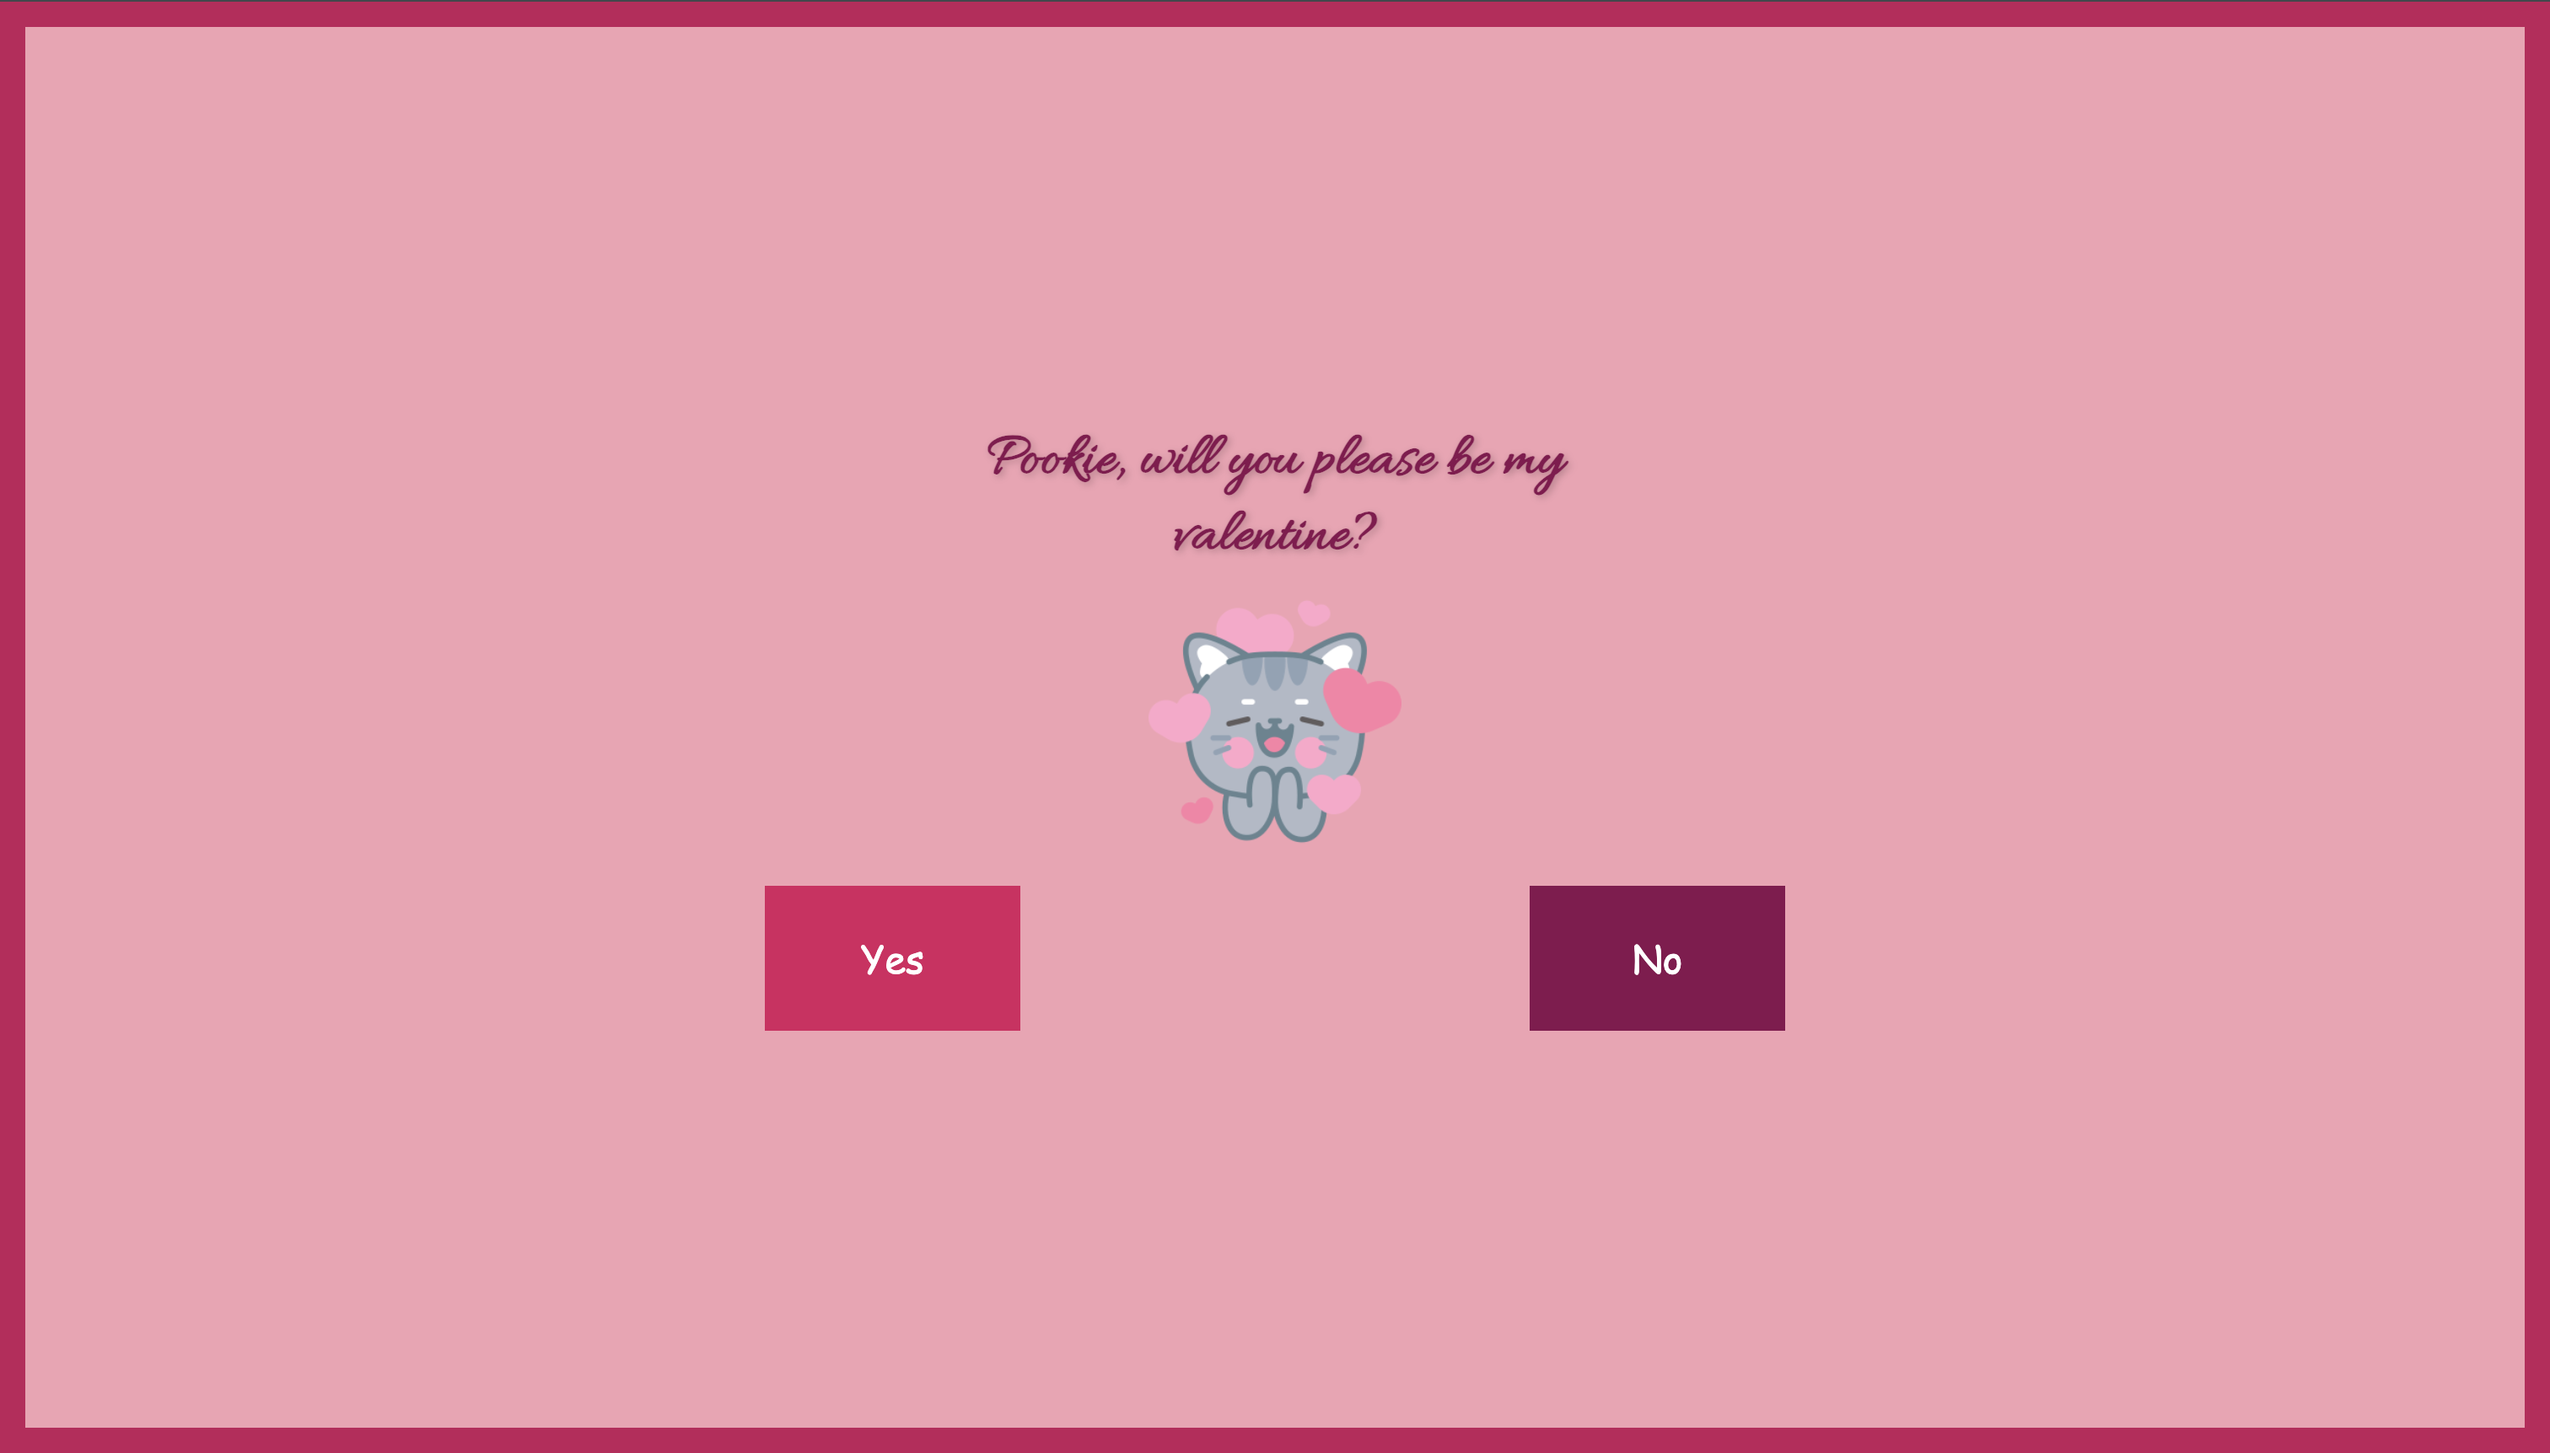
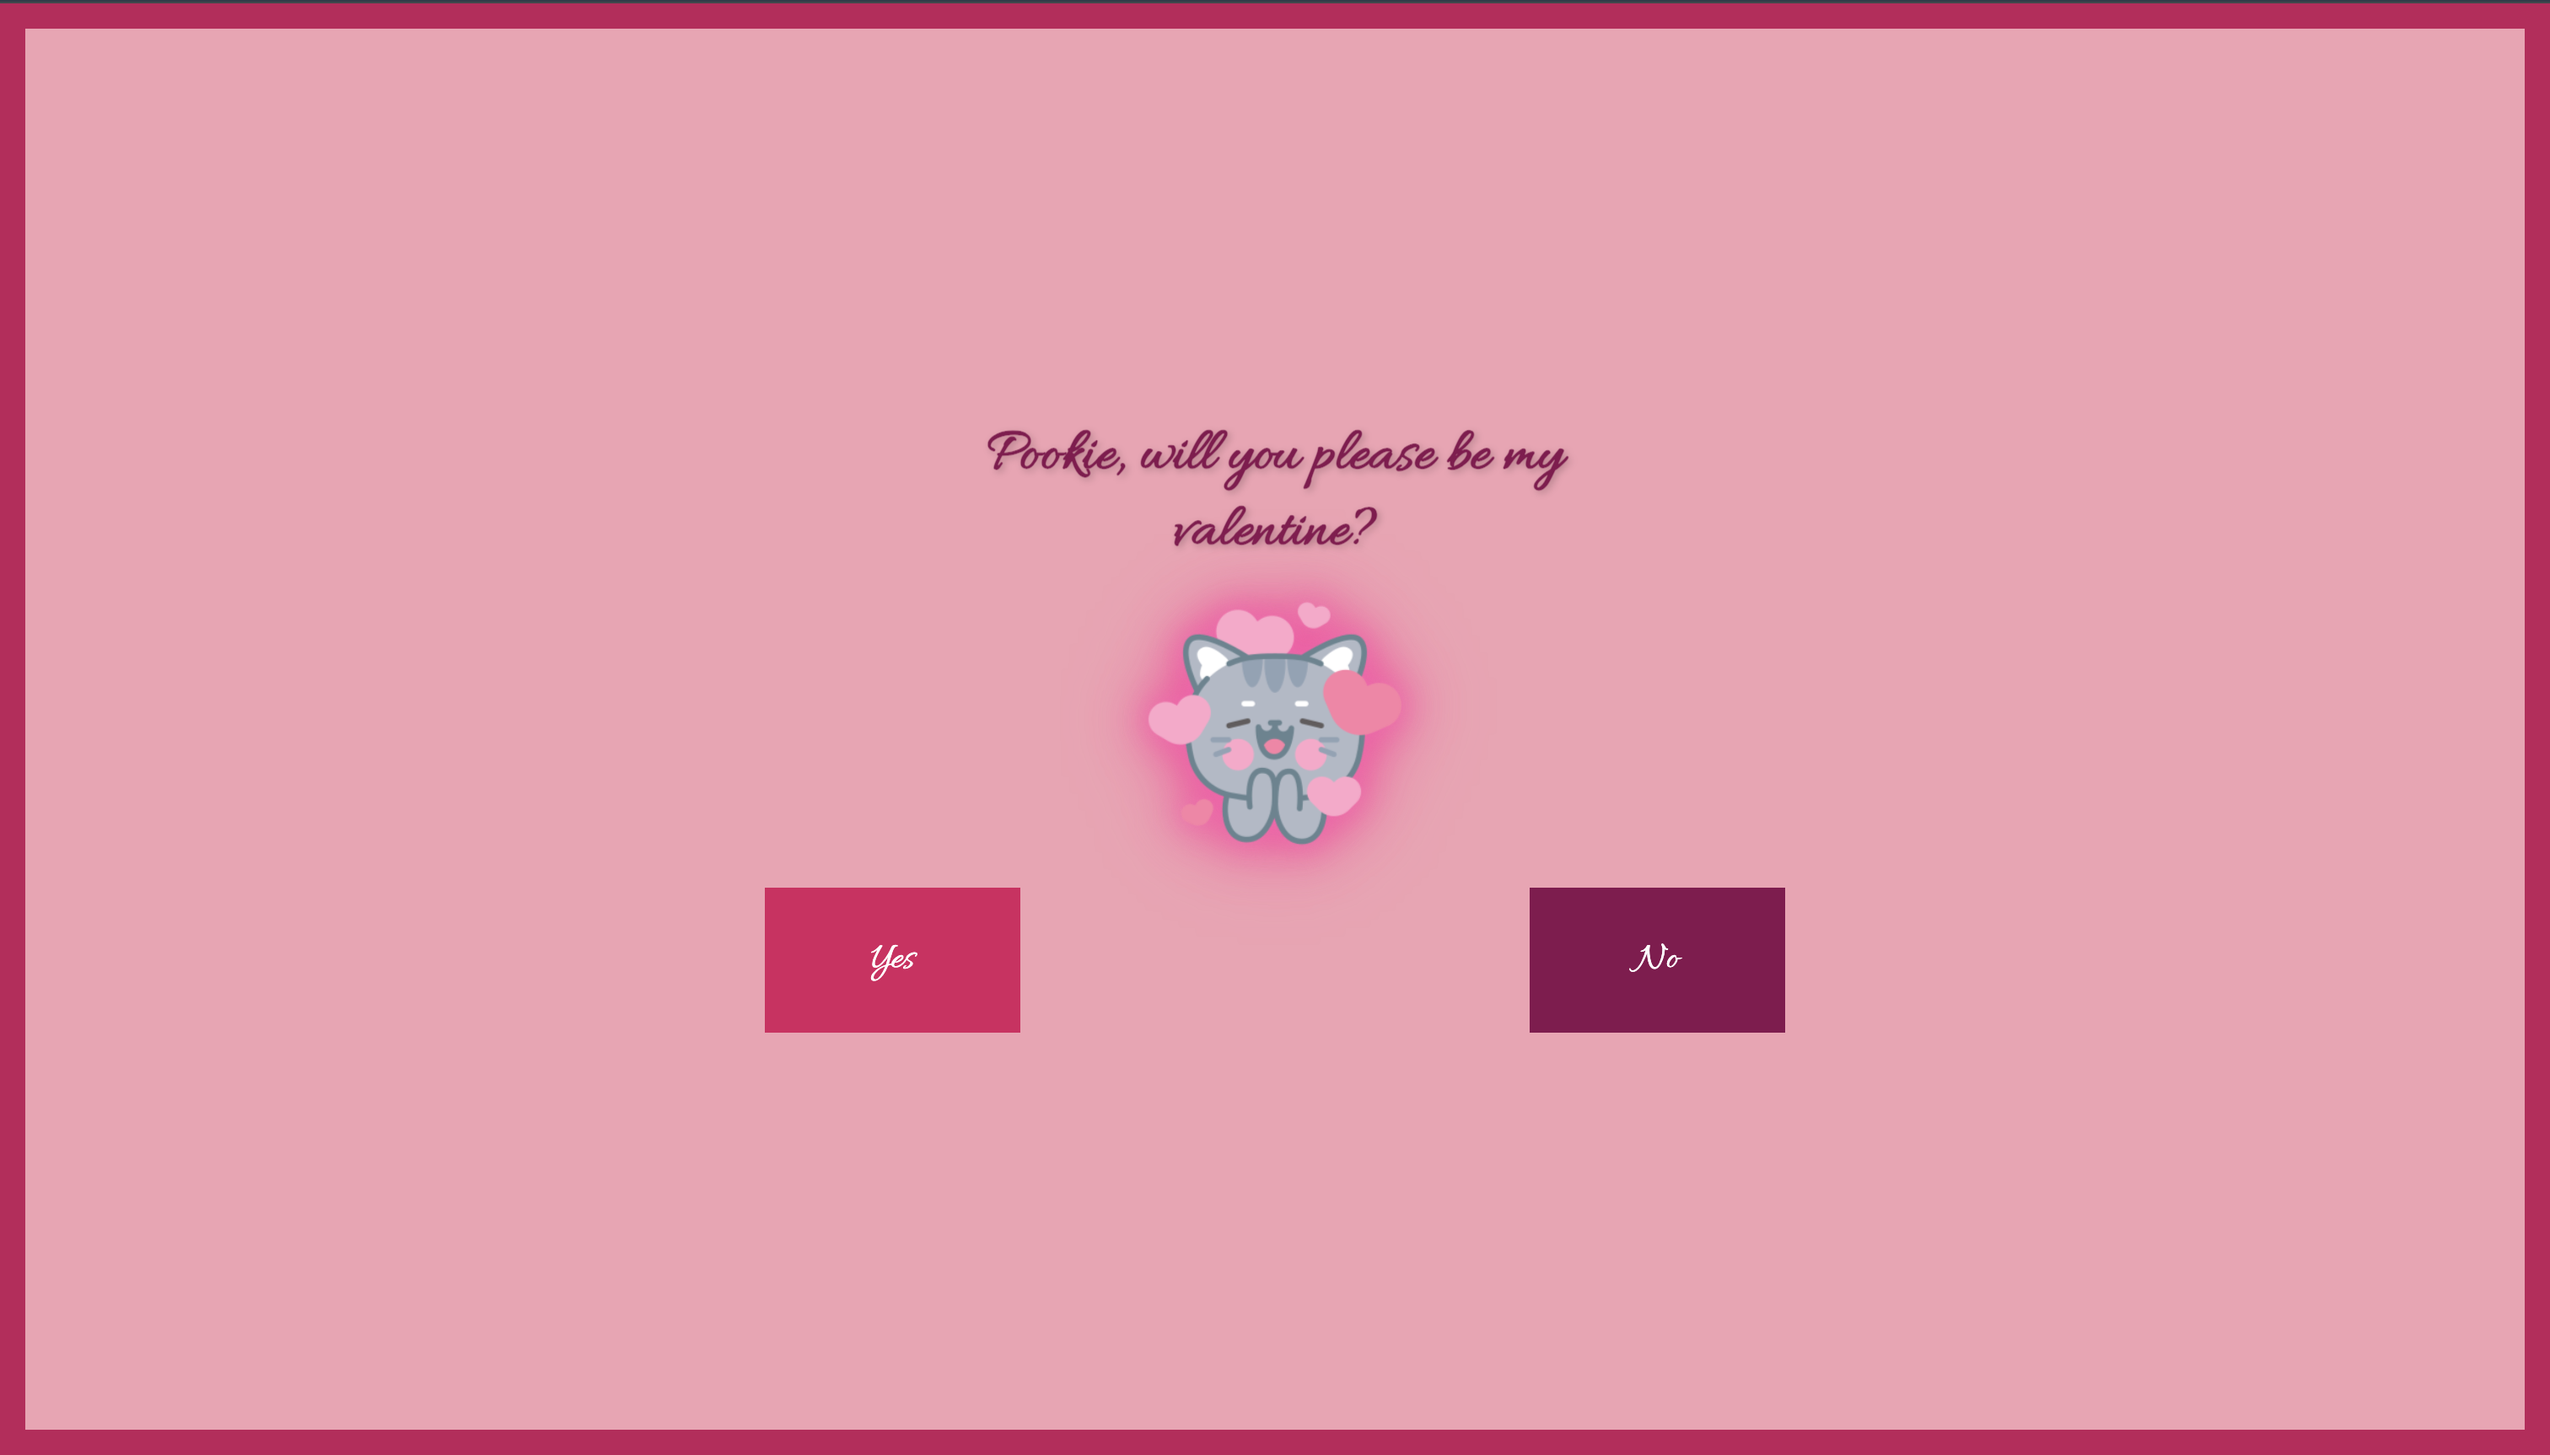
fixed math.random parameters

Changed region(s): [[0.373, 0.2767, 0.6217, 0.6148], [0.6217, 0.6456, 0.6528, 0.6763], [0.3419, 0.6456, 0.373, 0.6763]]

diff --git a/index.html b/index.html
@@ -254,7 +254,7 @@
 
     .text {
         color: #880E4F;
-        font-size: 48px;
+        font-size: 68px;
         font-weight: bold;
         text-align: center;
         max-width: 80%;
@@ -313,7 +313,7 @@
 
     #yes {
         background-color: #D81B60;
-        font-family: 'Comic Sans MS', cursive;
+        font-family: 'Allura', cursive;
         height: 10vh;
         width: 10vw;
         position: relative;
@@ -327,7 +327,7 @@
 
     #no {
         background-color: #880E4F;
-        font-family: 'Comic Sans MS', cursive;
+        font-family: "Allura", cursive;
         height: 10vh;
         width: 10vw;
         position: relative;
@@ -337,6 +337,29 @@
     #no:hover {
         border: 5px solid white;
     }
+
+    .glow-cat {
+        width: 200px;
+        animation: pinkGlow 2s ease-in-out infinite;
+    }
+
+    @keyframes pinkGlow {
+        0% {
+            filter:
+                drop-shadow(0 0 4px rgba(255, 105, 180, 0.4)) drop-shadow(0 0 8px rgba(255, 105, 180, 0.3));
+        }
+
+        50% {
+            filter:
+                drop-shadow(0 0 10px rgba(255, 105, 180, 0.8)) drop-shadow(0 0 18px rgba(255, 20, 147, 0.7)) drop-shadow(0 0 28px rgba(255, 20, 147, 0.5));
+        }
+
+        100% {
+            filter:
+                drop-shadow(0 0 4px rgba(255, 105, 180, 0.4)) drop-shadow(0 0 8px rgba(255, 105, 180, 0.3));
+        }
+    }
+
 
     @keyframes dhadak {
         0% {
@@ -487,7 +510,7 @@
             <div class="text">
                 Pookie, will you please be my valentine?
             </div>
-            <img src="https://cdn-icons-png.flaticon.com/256/10443/10443856.png" alt="cat">
+            <img src="https://cdn-icons-png.flaticon.com/256/10443/10443856.png" alt="cat" class="glow-cat">
         </div>
 
         <div id="btpar">
@@ -554,24 +577,19 @@
                 yesBtn.style.transform = `scale(${scale})`;
             });
 
-            const min = 10;
-            const max = 15;
+            const step = 8 + Math.random() * 8;
+            let dx = (Math.random() > 0.5 ? 1 : -1) * step;
+            let dy = (Math.random() > 0.5 ? 1 : -1) * step;
 
-            let dx = (Math.random() > 0.5 ? 1 : -1) * (min + Math.random() * (max - min));
-            let dy = (Math.random() > 0.5 ? 1 : -1) * (min + Math.random() * (max - min));
+            const MIN_X = -40;
+            const MAX_X = 40;
+            const MIN_Y = -25;
+            const MAX_Y = 25;
 
-            const leftBound = -700;
-            const rightBound = 500;
-            const upBound = -700;
-            const downBound = 400;
-
-            const futureX = posX * window.innerWidth / 100 + dx * window.innerWidth / 100;
-            const futureY = posY * window.innerHeight / 100 + dy * window.innerHeight / 100;
-
-            if (futureX < leftBound) dx = Math.abs(dx);
-            if (futureX > rightBound) dx = -Math.abs(dx);
-            if (futureY < upBound) dy = Math.abs(dy);
-            if (futureY > downBound) dy = -Math.abs(dy);
+            let nextX = posX + dx;
+            let nextY = posY + dy;
+            if (nextX < MIN_X || nextX > MAX_X) dx *= -1;
+            if (nextY < MIN_Y || nextY > MAX_Y) dy *= -1;
 
             posX += dx;
             posY += dy;
